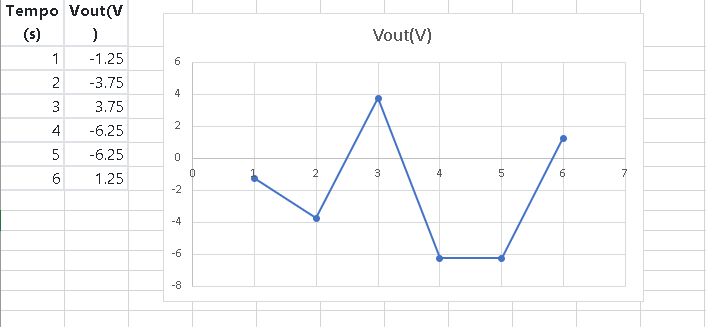
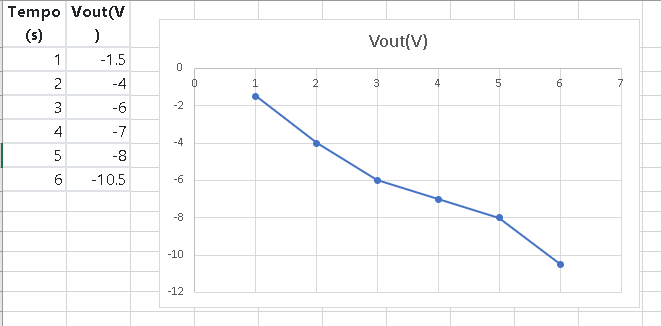
aula 15 09 ex2

diff --git a/index.html b/index.html
@@ -238,6 +238,7 @@
             
         </tbody>
     </table>
+    <h3>2)</h3>
     <table class="table table-bordered table-hover"  id="ex2_15-09">
         <thead>
             <th>Vin(V)</th>
@@ -249,6 +250,7 @@
             
         </tbody>
     </table>
+    <img src="ex2_15_set.PNG">
     <script src="amplificador.js"></script>
     <script src="exercicios.js"></script>
     <script src="https://code.jquery.com/jquery-3.5.1.slim.min.js" integrity="sha384-DfXdz2htPH0lsSSs5nCTpuj/zy4C+OGpamoFVy38MVBnE+IbbVYUew+OrCXaRkfj" crossorigin="anonymous"></script>

diff --git a/exercicios.js b/exercicios.js
@@ -524,7 +524,7 @@ let exercicio1_15_setembro = () =>{
                 <td>${grandezas[i-1][0]}</td>
                 <td>${grandezas[i-1][1]}</td>
                 <td>${grandezas[i-1][2]}</td>
-                <td>${Math.fround(respostasEx1_15_setembro[i])}</td>
+                <td>${Math.round(respostasEx1_15_setembro[i])}</td>
             </tr>`;
     }
 }
